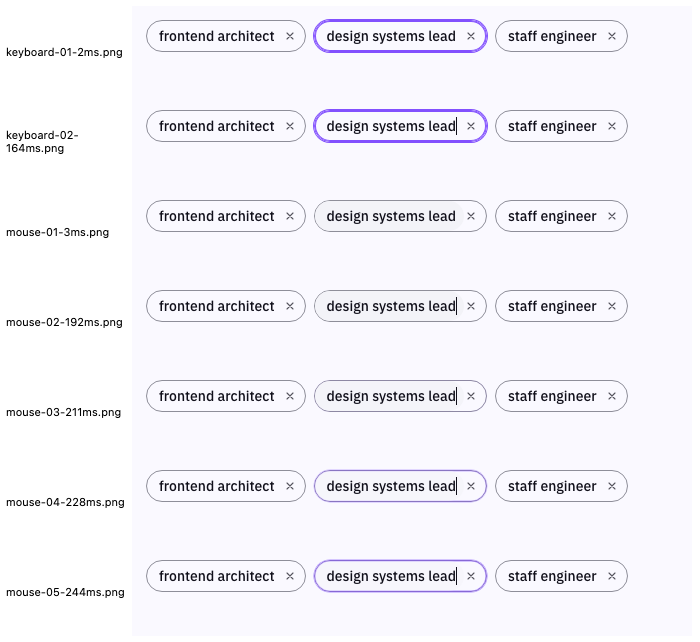
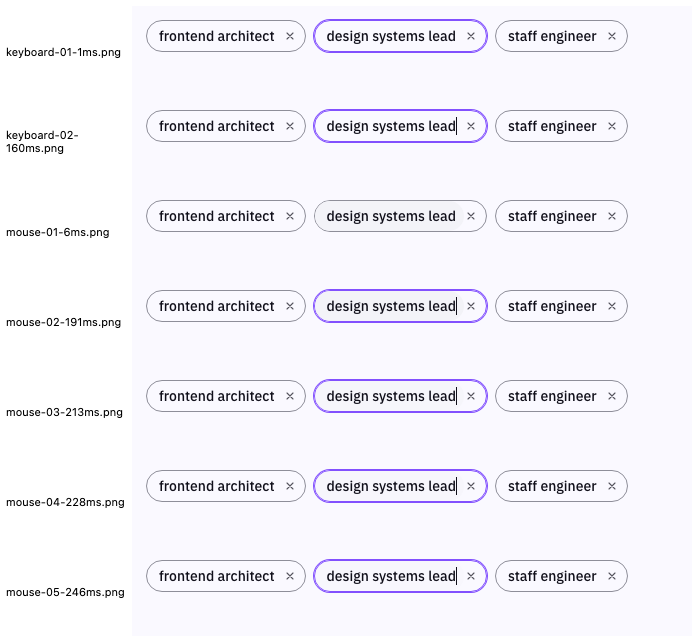
fix(ui): EditableChip's editing ring is instant however editing starts
Border and shadow no longer transition on the editing chip, so a click shows the ring from the first frame, as
keyboard focus already did. The hover fill still fades out of the field, and the clear × still fades in on a chip
that had no ×.

diff --git a/packages/ui/src/styles/chip.css b/packages/ui/src/styles/chip.css
@@ -211,14 +211,13 @@
   max-inline-size: 100%;
   min-inline-size: 0;
 }
+/* The editing chip's ring is there from the first frame, however editing starts (Salem, 2026-11-14): the border and
+   shadow don't transition. Focusing the field forces a style before focus lands, so a transition would run from that
+   unfocused style (a grey frame or an ease-in). */
 .sc-chip[data-editing] {
   cursor: text;
-  transition-duration: var(--sc-duration-base);
-}
-/* From keyboard focus the chip was already ringed, so the ring must not animate: focusing the field forces a style
-   before focus lands, and a border or shadow transition would run from that unfocused style (a grey dip). */
-.sc-chip[data-editing][data-entry='ring'] {
   transition-property: background-color, color;
+  transition-duration: var(--sc-duration-base);
 }
 /* The focus ring: the border takes the focus colour and a shadow outside it makes up the focus width. Nothing is drawn
    inside the border, so a hover fill inside the chip can't cover part of the ring, and the ring is the same 2px all
@@ -236,18 +235,11 @@
     outline: var(--sc-border-width-focus) solid transparent;
   }
 }
-/* Editing mounts a new chip, so it starts from how the chip looked a moment before (`data-entry`, set when editing
-   starts) and eases to the editing look (@starting-style):
-   - ring (keyboard focus): already ringed, so nothing changes but the text becoming a field;
-   - hover (a click): the ring eases in from the resting border, and the hover fill fades out of the field;
-   - plain: the ring eases in.
-   A clear × takes the remove ×'s place as it was; it only fades and grows in on a chip that had no ×. Leaving editing
-   swaps the chip back at once. Off under reduced motion (below). */
+/* Editing mounts a new chip, so what was on screen a moment before carries over (`data-entry`, set when editing
+   starts; @starting-style): after a click (hover) the hover fill fades out of the field; a clear × takes the remove
+   ×'s place as it was, and only fades and grows in on a chip that had no ×. Leaving editing swaps the chip back at
+   once. Off under reduced motion (below). */
 @starting-style {
-  .sc-chip[data-editing]:not([data-entry='ring']):focus-within {
-    border-color: var(--_bd);
-    box-shadow: 0 0 0 0 var(--sc-color-border-focus);
-  }
   .sc-chip[data-editing][data-entry='hover'] > .sc-chip__field {
     background-color: var(--_bg-hover);
   }
